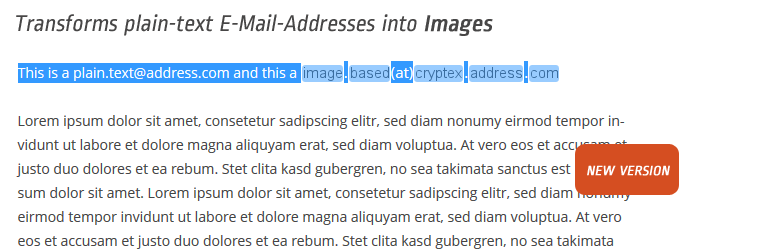
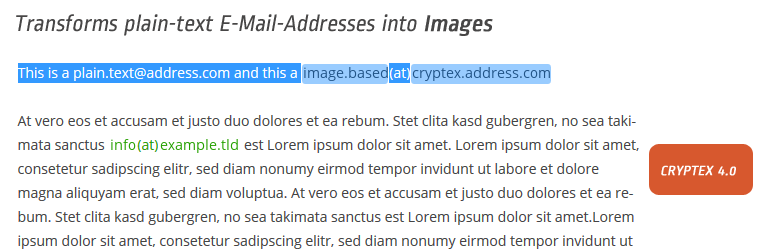
release v4.0

diff --git a/class/Cryptex.php b/class/Cryptex.php
@@ -1,7 +1,7 @@
 <?php
 /**
 	Cryptex Class
-	Version: 3.3
+	Version: 4.0
 	Author: Andi Dittrich
 	Author URI: http://andidittrich.de
 	Plugin URI: http://andidittrich.de/go/cryptex
@@ -48,7 +48,7 @@ class Cryptex{
 			'js-type' => 'external',
 			'font-file' => 'Arial.ttf',
 			'font-size' => '12px',
-			'line-height' => '16px',
+			'line-height' => '0',
 			'font-color' => '#000000',
 			'font-antialiasing' => true,
 			'font-renderer' => 'freetype',

diff --git a/class/FontManager.php b/class/FontManager.php
@@ -174,10 +174,10 @@ class FontManager{
 		// check dirs for accessibility
 		foreach ($scandirs as $dir){
 			try{
-				if (is_dir($dir) && is_readable($dir)){
+				if (@is_dir($dir) && @is_readable($dir)){
 					$dirstack[] = $dir;
 				}
-			}catch (Exception $exc){}
+			}catch (\Exception $exc){}
 		}
 			
 		return $dirstack;

diff --git a/README.md b/README.md
@@ -112,6 +112,7 @@ Send an email to Andi Dittrich (andi _D0T dittrich At a3non .dOT org) or or open
 * Added: Cleanup of generated stylesheets
 * Added: New Screenshots
 * Added: License Informations to settings-page footer
+* Added: Error supression for system-font scanning
 * Updated: MooTools Javascript code now uses `document.getElements()` instaed of leagcy `$$()` selector
 * Modified: Cryptex javascript file uses UglifyJS for minification
 * New settings page - now matches WordPress corporate UI style
